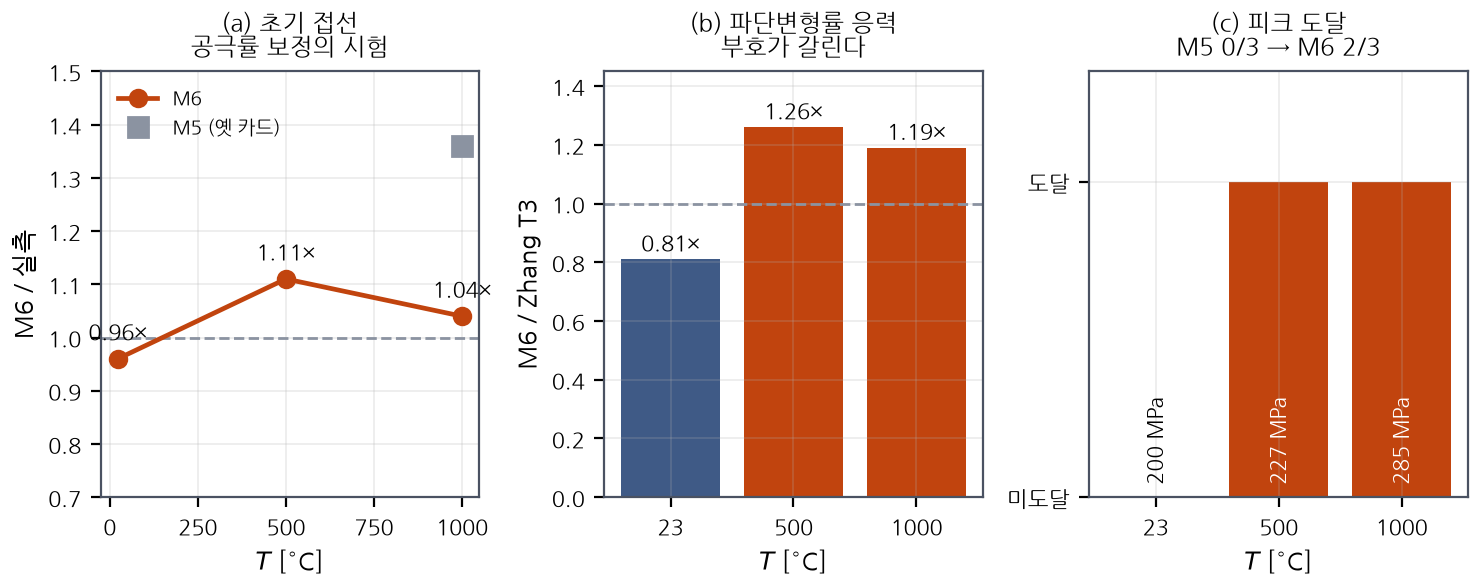
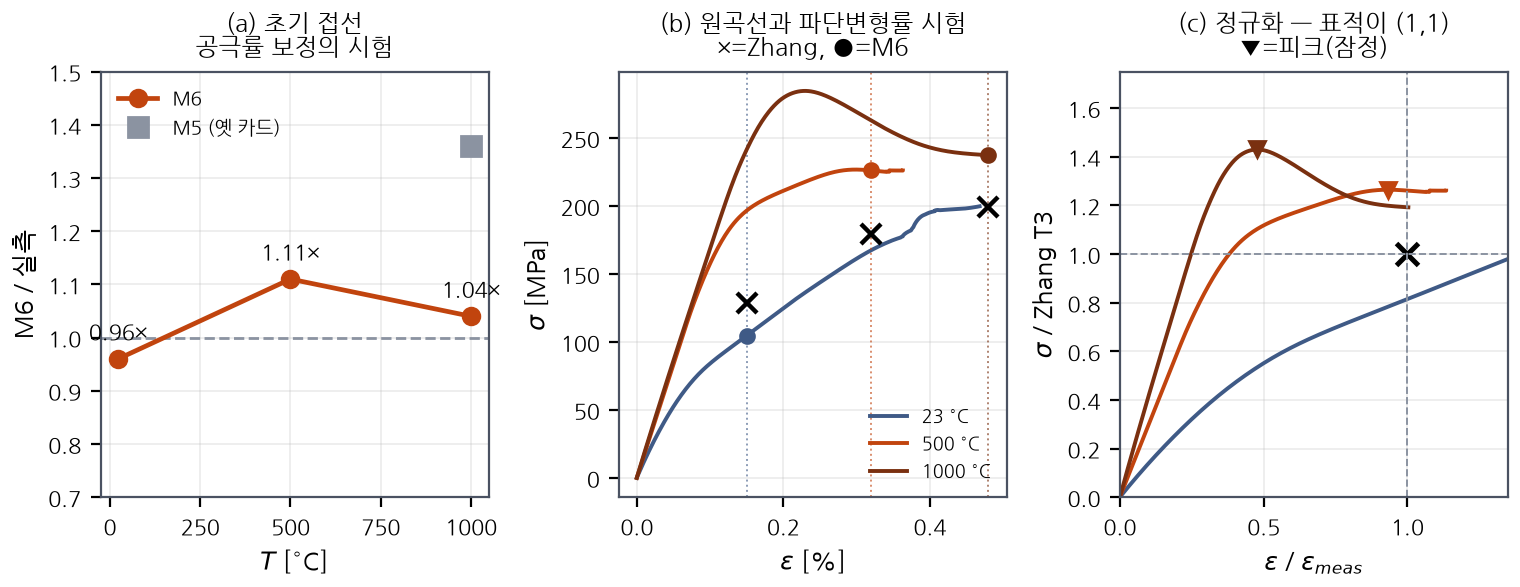
그림 4.6 (b)(c) 곡선화 — a2 의 원곡선 CSV 를 m6_verdict 판독기로 직접 읽는다
a1-0038 ② 의 약속 이행. (b)는 세 온도의 응력-변형률 원곡선 위에 파단변형률
시험(x = Zhang 측정 강도, o = 같은 변형률의 M6 응력)을 그리고, (c)는 응력을
ZHANG[T]로, 변형률을 EPS_TARGET[T]로 정규화해 세 시험의 표적을 (1,1) 한 점에
모았다 — 곡선이 x 위면 과다, 아래면 부족, ▼가 피크(잠정)다. RT23 이 표적
오른쪽까지 피크 없이 오르는 것이 기대 형상이라는 §4.9-0e 논지를 캡션에 실었다.

판독기는 만들지 않았다. read_curve/stress_at/peak/ZHANG/EPS_TARGET 전부
postprocess/m6_verdict.py 에서 import 한다 — 그림에 판독기가 하나 더 생기면
접선 정의가 두 개였던 사고(§4.9-0b)의 재판이다. 검사 셋이 고정한다: 자체
파서 부재, 그림의 피크 개수 = README 판정(2/3), 표적 숫자 하드코딩 부재.
make_thesis_figures 55 -> 57.

무료 논문 2편(3차 조사 23·24)의 컨테이너 직접 수령은 시도했으나 프록시가
publisher 를 막는다(CONNECT 403) — 사용자 회수 항목으로 남는다.

장부, 병합 트리 실측: 3207 -> 3209. 미러 5곳 동기화. a1-0044 발신.

Claude-Session: https://claude.ai/code/session_01VwwEP1aVmkbfWA34KDhjUj

diff --git a/postprocess/make_thesis_figures.py b/postprocess/make_thesis_figures.py
@@ -770,12 +770,24 @@ def fig_5_4():
 
 
 def fig_4_6():
-    """M6 — 출처 있는 카드가 M5 대비 무엇을 고쳤나 (판정 3종)."""
+    """M6 — 출처 있는 카드가 M5 대비 무엇을 고쳤나.
+
+    (a)는 README 표를 열 이름으로 파싱하고, (b)(c)는 2026-08-16부터 a2가 커밋한
+    원곡선 CSV(data/results/M6/LTH_M6_*_ss.csv)를 직접 읽는다.  판독은 전부
+    postprocess/m6_verdict.py의 함수(read_curve/stress_at/peak)와 상수(ZHANG/
+    EPS_TARGET)로 한다 — 여기서 다시 구현하면 판독기가 둘이 되고, 접선 정의가
+    두 개였던 사고(§4.9-0b)의 재판이 된다.
+    """
+    sys.path.insert(0, os.path.join(ROOT, "postprocess"))
+    import m6_verdict as mv
     tan = m6_table("| $T$ [°C] | M6 [GPa]")
-    eps = m6_table("| $T$ [°C] | M6 [MPa]")
-    pk = m6_table("| $T$ [°C] | 피크 [MPa]")
     T = [_num(r[0]) for r in tan]
-    fig, (a1, a2, a3_) = plt.subplots(1, 3, figsize=(7.4, 2.9))
+    curves = {}
+    for t in (23, 500, 1000):
+        f = os.path.join(RESULTS, "M6", "LTH_M6_%s_ss.csv"
+                         % {23: "RT23", 500: "T500", 1000: "T1000"}[t])
+        curves[t] = mv.read_curve(f)
+    fig, (a1, a2, a3_) = plt.subplots(1, 3, figsize=(7.6, 2.9))
 
     # (a) initial tangent ratio -- the one quantity X_t cannot touch, which
     # is why it is the honest test of the porosity correction.
@@ -791,31 +803,46 @@ def fig_4_6():
     a1.set_title("(a) 초기 접선\n공극률 보정의 시험", fontsize=8.6)
     a1.legend(fontsize=7, loc="upper left")
 
-    # (b) stress at the measured fracture strain -- the sign SPLITS, and the
-    # split is the finding, so it gets its own zero line and no trend curve.
-    r_eps = [_num(v) for v in m6_pick("| $T$ [°C] | M6 [MPa]", "비")]
-    a2.axhline(1.0, color=C_GREY, lw=1.0, ls="--")
-    a2.bar([str(int(x)) for x in T], r_eps,
-           color=[C_AUX if v < 1 else C_ACC for v in r_eps])
-    for i, v in enumerate(r_eps):
-        a2.text(i, v + 0.03, "%.2f×" % v, ha="center", fontsize=8)
-    a2.set_ylim(0, 1.45)
-    a2.set_xlabel("$T$ [°C]"); a2.set_ylabel("M6 / Zhang T3")
-    a2.set_title("(b) 파단변형률 응력\n부호가 갈린다", fontsize=8.6)
+    # (b) the actual stress-strain curves, with the fracture-strain test ON
+    # them: x = Zhang's measured strength at his own measured failure strain,
+    # o = where the M6 curve passes that strain.  The vertical gap IS the
+    # (b)-verdict; the old bar chart showed the ratio and hid the curve.
+    shades = {23: C_AUX, 500: C_ACC, 1000: "#7a3010"}
+    for t in (23, 500, 1000):
+        c = curves[t]
+        a2.plot([100.0 * e for e, _ in c], [sg for _, sg in c],
+                color=shades[t], lw=1.4, label="%d °C" % t)
+        et = mv.EPS_TARGET[t]
+        a2.axvline(100.0 * et, color=shades[t], lw=0.7, ls=":", alpha=0.6)
+        a2.plot([100.0 * et], [mv.stress_at(c, et)], "o", color=shades[t],
+                ms=5)
+        a2.plot([100.0 * et], [mv.ZHANG[t]], "x", color="black", ms=7,
+                mew=1.6)
+    a2.set_xlabel(r"$\varepsilon$ [%]"); a2.set_ylabel(r"$\sigma$ [MPa]")
+    a2.set_title("(b) 원곡선과 파단변형률 시험\n×=Zhang, ●=M6", fontsize=8.6)
+    a2.legend(fontsize=6.6, loc="lower right")
 
-    # (c) did the curve peak at all.  M5: none.  M6: two of three.
-    reached = [1.0 if "예" in v else 0.0
-               for v in m6_pick("| $T$ [°C] | 피크 [MPa]", "피크 도달?")]
-    a3_.bar([str(int(_num(r[0]))) for r in pk], reached,
-            color=[C_ACC if v else C_GREY for v in reached])
-    for i, (r, v) in enumerate(zip(pk, reached)):
-        a3_.text(i, 0.04, "%.0f MPa" % _num(r[1]), ha="center", fontsize=7.6,
-                 rotation=90, va="bottom", color="white" if v else "black")
-    a3_.set_ylim(0, 1.35)
-    a3_.set_yticks([0, 1]); a3_.set_yticklabels(["미도달", "도달"])
-    a3_.set_xlabel("$T$ [°C]")
-    a3_.set_title("(c) 피크 도달\nM5 0/3 → M6 %d/3"
-                  % int(sum(reached)), fontsize=8.6)
+    # (c) the same three tests collapsed: stress over ZHANG[T] against strain
+    # over EPS_TARGET[t], so every target sits at (1, 1).  A curve passing
+    # above the cross over-predicts, below under-predicts -- the sign split
+    # is one glance.  Peaks (v) before x = 1 are what M5 never had; the RT23
+    # curve ending right of x = 1 while still rising is the expected shape,
+    # not a failure (Zhang's RT specimen broke at 0.150 %).
+    for t in (23, 500, 1000):
+        c = curves[t]
+        et, zt = mv.EPS_TARGET[t], mv.ZHANG[t]
+        a3_.plot([e / et for e, _ in c], [sg / zt for _, sg in c],
+                 color=shades[t], lw=1.4)
+        pe, ps, at_end = mv.peak(c)
+        if not at_end:
+            a3_.plot([pe / et], [ps / zt], "v", color=shades[t], ms=6)
+    a3_.plot([1.0], [1.0], "x", color="black", ms=8, mew=1.8)
+    a3_.axhline(1.0, color=C_GREY, lw=0.7, ls="--")
+    a3_.axvline(1.0, color=C_GREY, lw=0.7, ls="--")
+    a3_.set_xlim(0, 1.35); a3_.set_ylim(0, 1.75)
+    a3_.set_xlabel(r"$\varepsilon$ / $\varepsilon_{meas}$")
+    a3_.set_ylabel(r"$\sigma$ / Zhang T3")
+    a3_.set_title("(c) 정규화 — 표적이 (1,1)\n▼=피크(잠정)", fontsize=8.6)
     return save(fig, "fig_4_6_m6")
 
 
@@ -908,10 +935,24 @@ def check():
       abs(ratios[-1] - 1.01) > 1e-9
       and not any(x in inspect.getsource(fig_4_6)
                   for x in ("1.01", "111.1", "174.2")))
-    t("fig 4.6 counts the peaks reached rather than stating 2/3",
+    # (b)(c) now consume the committed curves through m6_verdict's own
+    # readers.  What matters is that the figure has NO reader of its own --
+    # a second reader is how the two-tangent fork happened.
+    sys.path.insert(0, os.path.join(ROOT, "postprocess"))
+    import m6_verdict as _mv
+    src46 = inspect.getsource(fig_4_6)
+    t("fig 4.6 reads the curves via m6_verdict, not its own parser",
+      "mv.read_curve" in src46 and "mv.stress_at" in src46
+      and "csv" not in src46.replace("_ss.csv", ""))
+    t("...and the peak count it can draw agrees with the README verdict",
       sum(1 for v in m6_pick("| $T$ [°C] | 피크 [MPa]", "피크 도달?")
-          if "예" in v) == 2
-      and "sum(reached)" in inspect.getsource(fig_4_6))
+          if "예" in v)
+      == sum(1 for tag in ("RT23", "T500", "T1000")
+             if not _mv.peak(_mv.read_curve(os.path.join(
+                 RESULTS, "M6", "LTH_M6_%s_ss.csv" % tag)))[2]))
+    t("...and the targets it marks are m6_verdict's, not typed",
+      "mv.ZHANG" in src46 and "mv.EPS_TARGET" in src46
+      and not any(x in src46 for x in ("128.45", "179.42", "199.15")))
     t("fig 4.6 does not hard-code the M6 stresses",
       not any(s in inspect.getsource(fig_4_6)
               for s in ("199.83", "226.83", "284.71", "0.81", "1.19")))

diff --git a/verification/check_chapter_consistency.py b/verification/check_chapter_consistency.py
@@ -119,7 +119,7 @@ EXACT = [
     ("RVE volume [mm^3]", "5.390", ["Ch.1", "Ch.4"]),
     ("Biot for refs/[2], literature properties", "0.0277",
      ["Ch.1", "Ch.4", "Ch.5"]),
-    ("automated verification item count", "3207", ["Ch.1", "Ch.3", "Ch.7"]),
+    ("automated verification item count", "3209", ["Ch.1", "Ch.3", "Ch.7"]),
     # The [28] page range was once corrupted to "1784-1597" by a blind
     # replace of the verification counter (1784 was the counter's value at
     # the time; 1586 had been an EARLIER value of the same counter, which is

diff --git a/verification/check_ch3_numbers.py b/verification/check_ch3_numbers.py
@@ -224,7 +224,7 @@ CASES = [
          r"(?m)^\s{0,4}(?:PASS|FAIL|SKIP)\b", s)), 10),
     ("make_thesis_figures.py --check",
      "python3 postprocess/make_thesis_figures.py --check",
-     count_bracketed, 55),
+     count_bracketed, 57),
     ("extract_kbar.py --selftest",
      "python3 postprocess/extract_kbar.py --selftest",
      count_bracketed, 33),

diff --git a/docs/CH3_VERIFICATION.md b/docs/CH3_VERIFICATION.md
@@ -87,7 +87,7 @@ L1이 통과된 상태에서 발생하였으므로 구성식 구현의 오류가
 | `knob_sensitivity.py --check` | knob→관측량 정규화 민감도 자코비안(13×10)·SVD 식별성(3강도 행 유효계수 1)·rF의 Ge 식(17) 파생·구조적 영 민감도·CSV/스냅샷 재생성 | 47 |
 | `md_to_pdf.py --selftest` | 문서 PDF 변환 — 수식 치환·파일명 규칙 | 11 |
 | `md_to_docx.py --selftest` | 논문 초안 워드 합본 — 장 발견·표지 산수(전부 즉석 계산)·수식 막대 정규화 | 10 |
-| `make_thesis_figures.py --check` | 논문 그림 15장 — 한글 폰트·문헌값 재유도·덱값 대조·본문 삽입 여부 + **두 물성 계보의 Bi가 같은 냉각시간을 재현하는지·금지 조합 차단** + **그림 3.1의 SDV 번호를 UMAT 헤더에서 되읽어 대조** + **M6 표를 열 이름으로 읽는지**) | 55 |
+| `make_thesis_figures.py --check` | 논문 그림 15장 — 한글 폰트·문헌값 재유도·덱값 대조·본문 삽입 여부 + **두 물성 계보의 Bi가 같은 냉각시간을 재현하는지·금지 조합 차단** + **그림 3.1의 SDV 번호를 UMAT 헤더에서 되읽어 대조** + **M6 표를 열 이름으로 읽는지·(b)(c)가 m6_verdict 판독기로 원곡선을 읽는지**) | 57 |
 | `extract_kbar.py --selftest` | $\bar k$ 공극률 판정 산식 + **Voigt 상한 가능성 검사**·CSV + 상한을 덱 카드에서 읽기·공극률을 파일 전체에서 읽기 + **덱의 단위 스탬프를 읽어 구·신 단위계를 모두 판독** | 33 |
 | `sync_check.py --selftest` | 두 에이전트 우편함 — 소유권·형식·반영·영역 | 46 |
 | `celent_census.py` | 균열대 폭 `le`=CELENT가 파괴에너지를 얼마나 어긋나게 하는가 (발표 계열 대조 포함) | 35 |
@@ -98,7 +98,7 @@ L1이 통과된 상태에서 발생하였으므로 구성식 구현의 오류가
 | `damage_census.py --check` | 손상 census — 부피가중 분율·ATEFF 클램프 임계·**강도 인용 가부 판정 CSV** | 10 |
 | `extract_thermal_profile.py --selftest` | 급랭 HEAT odb 판독 — 열경계층이 요소로 풀렸나 · 첫 프레임이 구배 피크 전인가 · **odb에서 되읽은 열확산율이 카드와 맞나**(1000배 단위오차 탐지) · **저Bi 고유값·욕조온도·alpha(T) 창** | 31 |
 | `homogenize.py --selftest` | 거시 카드 조립 — 드라이버→히스토리 영역 해결(집합명 아닌 절점번호)·치환 방지 검사·반력 부호 규약 자기결정 | 18 |
-| **합계** | | **3207** |
+| **합계** | | **3209** |
 
 전부 통과하며, 커밋 전 통과가 프로젝트 규칙으로 강제된다.
 

diff --git a/docs/CH1_INTRODUCTION.md b/docs/CH1_INTRODUCTION.md
@@ -278,7 +278,7 @@ Hashin만이 구동하므로 **기준을 추가해도 응력과 강성이 비트
    없는 보정 파라미터) / DERIVED(공표된 규칙으로부터 유도)의 네 등급을 부여하고,
    등급 분포가 선언과 어긋나면 커밋이 막힌다. 이 게이트는 문서가 아니라 매 커밋
 <<<<<<< HEAD
-   전 전수 실행되는 검사이며, 현재 **3207개 항목**이다(제3장 §3.1).
+   전 전수 실행되는 검사이며, 현재 **3209개 항목**이다(제3장 §3.1).
 =======
    전 전수 실행되는 검사이며, 현재 **3034개 항목**이다(제3장 §3.1).
 >>>>>>> a2/head
@@ -326,7 +326,7 @@ Hashin만이 구동하므로 **기준을 추가해도 응력과 강성이 비트
 영원히 불가능해진다.
 
 <<<<<<< HEAD
-L1은 자동화되어 있으며, 현재 **3207개 항목**이 매 커밋 전에 전수 통과를 강제받는다
+L1은 자동화되어 있으며, 현재 **3209개 항목**이 매 커밋 전에 전수 통과를 강제받는다
 =======
 L1은 자동화되어 있으며, 현재 **3034개 항목**이 매 커밋 전에 전수 통과를 강제받는다
 >>>>>>> a2/head
@@ -418,7 +418,7 @@ RVE 구성은 다음과 같다(제4장 §4.2).
 | **제1장** | 서론 — 배경, 문제 제기, 목적, 기여, 범위 | 본 장 |
 | **제2장** | 문헌고찰 — 준취성 거동, TRS, 열충격 vs 열싸이클, CDM, 파손기준, 균질화, 연구 공백 | 기여 C1–C4의 근거 |
 <<<<<<< HEAD
-| **제3장** | 미시 구성모델과 코드 검증 — 정식화, 8개 신규 기능, 3207개 자동 검증 항목 | **L1** |
+| **제3장** | 미시 구성모델과 코드 검증 — 정식화, 8개 신규 기능, 3209개 자동 검증 항목 | **L1** |
 =======
 | **제3장** | 미시 구성모델과 코드 검증 — 정식화, 8개 신규 기능, 3034개 자동 검증 항목 | **L1** |
 >>>>>>> a2/head

diff --git a/docs/CH7_CONCLUSION.md b/docs/CH7_CONCLUSION.md
@@ -15,7 +15,7 @@
 해석하고, **열잔류응력(TRS) 처리 방식이 예측을 얼마나 바꾸는지 정량화**하는 것을
 목적으로 하였다(제1장 §1.3). 이를 위해:
 
-- **제3장**이 미시 구성모델(UMAT V3_0)을 구현하고 **3207개 자동 검증 항목**으로
+- **제3장**이 미시 구성모델(UMAT V3_0)을 구현하고 **3209개 자동 검증 항목**으로
   L1(코드 검증)을 강제하였다. 커밋마다 전수 통과가 규칙이다.
 - **제4장**이 RVE를 가상 시험기로 균질화하고, L2(미시 확인)의 보정 구조를
   확정하였다 — Zhang Table 3의 세 온도는 같은 것을 세 번 재는 것이 아니라
@@ -31,7 +31,7 @@
 손상 법칙으로 넘고, RVE 가상시험의 결과를 거시 카드로 전달하는 경로를
 구성하였다(제3·5장). **(나) TRS 처리 방식 3케이스의 정량 비교** — 이 축은 결과가
 채울 약속으로 남아 있으며, 그 답의 자리는 §7.2.2의 첫 행이다(제6장). **(다) 출처
-등급화·전수 자동검증된 재현가능 구현** — 카드 슬롯 단위 출처 등급과 위의 3207개
+등급화·전수 자동검증된 재현가능 구현** — 카드 슬롯 단위 출처 등급과 위의 3209개
 항목 커밋 게이트, 컴파일된 Fortran과 독립 Python 미러의 273개 재료점 상태
 교차검증, 원문 전문 추출에 의한 통설 정정을, 문서가 아니라 실행되는 게이트로
 논문과 함께 인도하였다(제1장 §1.4.2, 제3장 §3.1·§3.5). (가)·(다)는 이미 인도된
